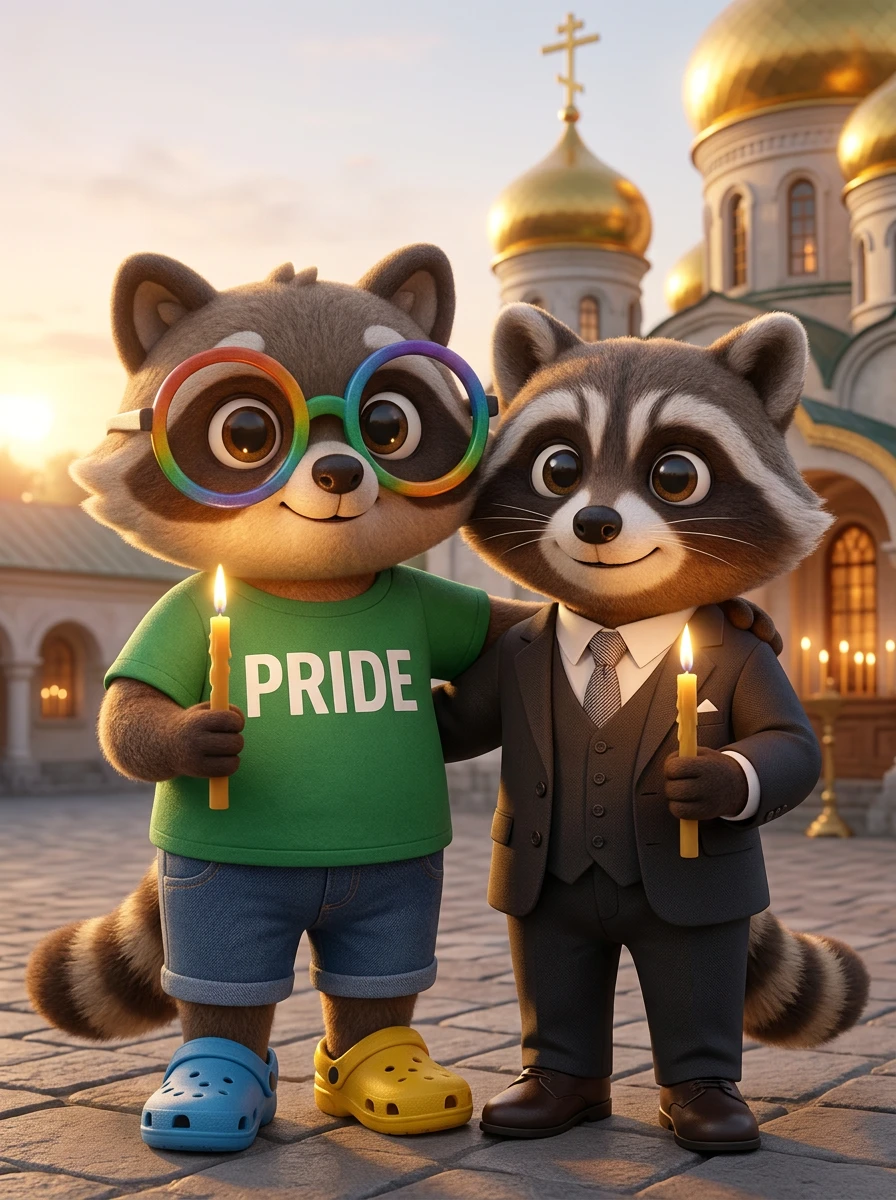
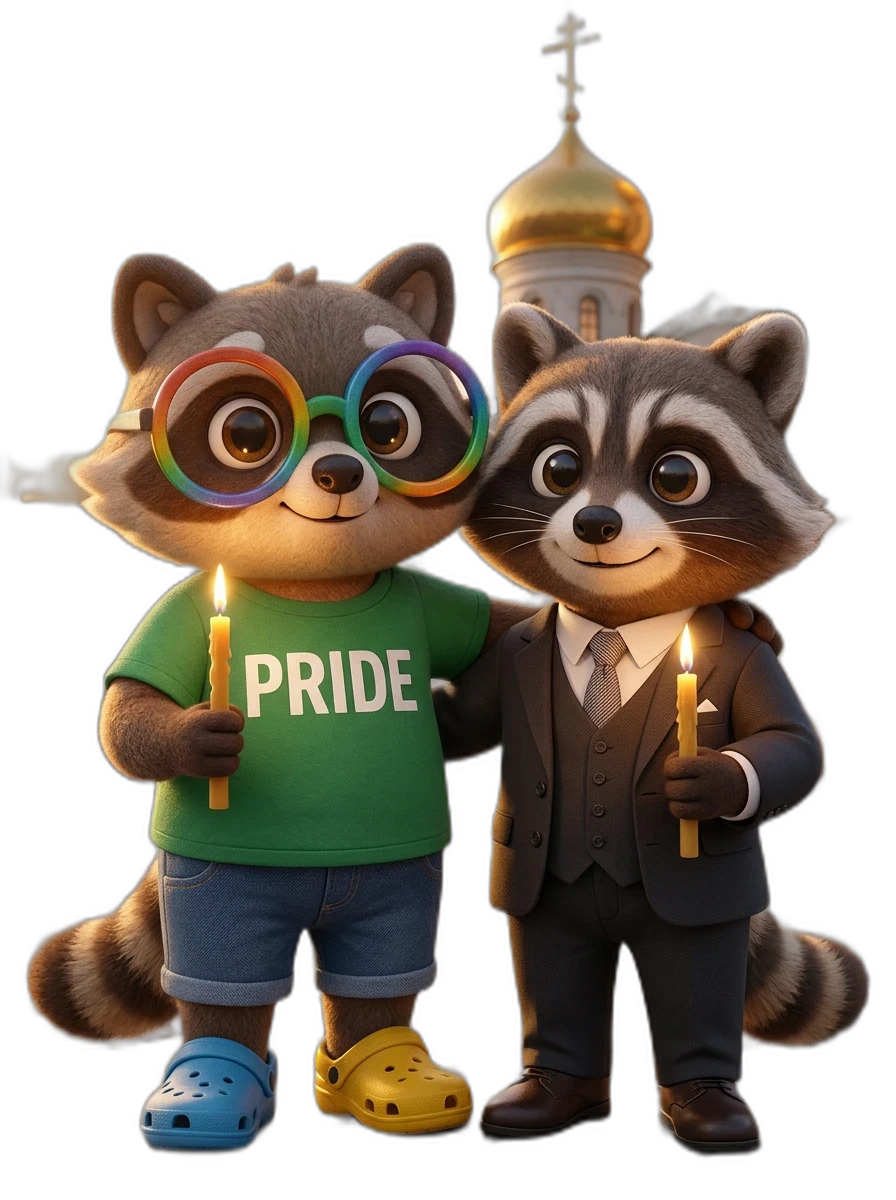
Fix Greek Orthodox featured image and make background transparent
Use the actual post image (raccoon-zach-orthodox-church.webp) as the featured
image instead of the generic raccoon-religion.webp. Remove background to make
it transparent.

diff --git a/_d/greek-orthodox.md b/_d/greek-orthodox.md
@@ -2,7 +2,7 @@
 title: "Greek Orthodox: What Makes It Different"
 layout: post
 permalink: /greek-orthodox
-imagefeatureblob: blog/raccoon-religion.webp
+imagefeature: /images/raccoon-zach-orthodox-church.webp
 redirect_from:
   - /orthodox
 alias:
